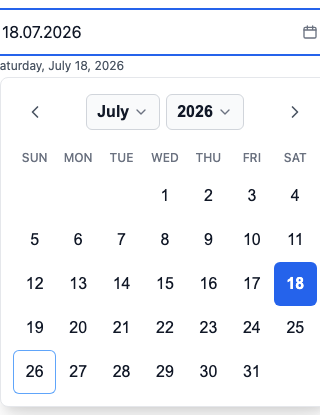
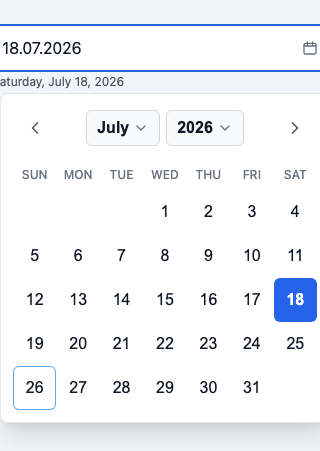
Center and pad the README captures; demo real flows in the GIF
The previous captures cropped the union of field and popover with an
8px pad, which sliced the popover shadow and left the full-width field
lopsided against the left-aligned popover. Captures now stage the
picker in a centered 336px column on a soft backdrop with a 28px pad,
in both light and dark, so nothing is cut and the composition is
symmetric.

The GIF now demonstrates the actual feature set instead of bare
navigation: digits masking into the display format while typing, Enter
committing the typed date with the long-form echo appearing, a click
on a disabled weekend day being swallowed (weekends disabled via
shouldDisableDate for the recording), month-view navigation, and a
one-tap commit. The clip is measured once at popover-open extent and
reserves room for the echo line that appears mid-sequence; the
disabled-day click uses a forced click because Playwright's
actionability check refuses aria-disabled targets that a real pointer
can hit.

diff --git a/README.md b/README.md
@@ -8,7 +8,7 @@ dependencies beyond React.
 [![CI](https://github.com/ysalitrynskyi/react-locale-datepicker/actions/workflows/ci.yml/badge.svg)](https://github.com/ysalitrynskyi/react-locale-datepicker/actions/workflows/ci.yml)
 [![license](https://img.shields.io/npm/l/react-locale-datepicker)](./LICENSE)
 
-![Interaction demo: open, keyboard navigation, month view, one-tap commit, long-form echo](docs/assets/picker-demo.gif)
+![Interaction demo: typing masks into the date format, Enter commits with a long-form echo, a disabled weekend click is blocked, month view navigation, one-tap commit](docs/assets/picker-demo.gif)
 
 | Light | Dark | RTL (Arabic) |
 | --- | --- | --- |
